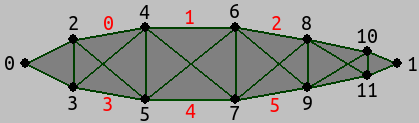
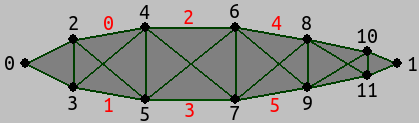
Start of hydro_fish.py SMHFish class cleanup.
More sensible numbering on muscles; updated fish anatomy picture to match.
__init__ method now requires 2D shape and mass data as input parameters.

diff --git a/vehicle/hydro_fish.py b/vehicle/hydro_fish.py
@@ -8,7 +8,7 @@ from __future__ import print_function
 from __future__ import division
 
 import sys, pygame
-from pygame.locals import RLEACCEL, QUIT, MOUSEBUTTONDOWN
+from pygame.locals import QUIT, MOUSEBUTTONDOWN
 
 # TODO: Adjust this depending on where this file ends up.
 sys.path.extend(['../vpoints', '../vehicle'])
@@ -16,37 +16,43 @@ from point2d import Point2d
 
 # BasePointMass2d defaults
 import vehicle2d
+# Additional spring-mass classes
 from springmass import DampedMass2d, IdealSpring2d
 
 # Math defauls
 from math import sqrt
 INF = float('inf')
 
+# This must be called after springmass imports to have any effect
 vehicle2d.set_physics_defaults(MASS=5.0, MAXSPEED=80.0, MAXFORCE=50000.0)
 
 # Fish coefficients (coefishents??)
-NODE_RADIUS = 5
-NODE_MASS = 1
+NODE_RADIUS = 0
+MASS_SCALE = 12
+SIZE_SCALE = 6
 DAMPING_COEFF = 10
-SPRING_CONST = 3
 MUSCLE_K = 80
 SOLIDS_K = 90
 CROSS_K = 200
 TAIL_K = 70
-HYDRO_FORCE_MULT = 45
+
+HEAD_MASS = 0.5
+# (Length, half-width, nodemass) for each segment
+BODY_DATA = [(8,4,6.6), (12,6,11.0), (15,6,8.6), (12,4,1.1), (10,2,1.1)]
+# (Length, nodemass) of tail
+TAIL_DATA = (5,0.004)
 
 SQUEEZE = 0.89
 FREQ = 180
 
-HYDRO_FORCE_SCALE = 0.02 # For rendering only?
-MASS_SCALE = 12
-SIZE_SCALE = 6
+HYDRO_FORCE_MULT = 45# Actual force multiplier
+HYDRO_FORCE_SCALE = 0.02 # For rendering only
+HYDRO_COLOR = (0,90,190)
 
 X_OFFSET = 400
 Y_OFFSET = 400
 
 UPDATE_SPEED = 0.02
-
 
 class MuscleSpring2d(IdealSpring2d):
     """A spring with the ability to contract and flex. See Notes.
@@ -165,7 +171,7 @@ class HydroQuad2d(object):
             self.base_m.accumulate_force(total_force.scm(1-ct))
             self.tip_m.accumulate_force(total_force.scm(ct))
 ## current force is for test with rendering (draws blue force vectors)
-            self.current_force = total_force.scm(HYDRO_FORCE_SCALE)
+            self.current_force = total_force
         else:
             self.current_force = None
 
@@ -173,81 +179,82 @@ class HydroQuad2d(object):
         """Draw the hydro force exerted by this quad."""
         if self.current_force is not None:
             center = [int(x) for x in self.pos.ntuple()]
-            pygame.draw.circle(surf,(0,90,190),center,3,0)
-            tipvec = self.pos - self.current_force
+            pygame.draw.circle(surf, HYDRO_COLOR, center, 3, 0)
+            tipvec = self.pos - self.current_force.scm(HYDRO_FORCE_SCALE)
             tip = [int(x) for x in tipvec.ntuple()]
-            pygame.draw.line(surf, (0,90,190), center, tip, 2)
+            pygame.draw.line(surf, HYDRO_COLOR, center, tip, 2)
 
 
 class SMHFish(object):
     """It's ostensibly a fish."""
 
-    def __init__(self):
-        # Fish coordinate nodes
-        # Head and tail
-        nodedata = [(0,0,0.5), (62,0,0.004)]
-
-        # Body nodes from head to tail with left/right symmetry
-        for i, j, m in [(8,4,6.6), (20,6,11.0), (35,6,8.6), (47,4,1.1), (57,2,1.1)]:
-            nodedata.append((i,j,m*MASS_SCALE))
-            nodedata.append((i,-j,m*MASS_SCALE))
-
+    def __init__(self, head_mass, body_data=None, tail_data=None):
+        # Placeholder for fish coordinate nodes
+        self.numnodes = 12
+        massnodes = list(range(self.numnodes))
+        damping = DAMPING_COEFF # velocity-based damping coeff for mass nodes
+        offset = Point2d(X_OFFSET, Y_OFFSET) # offset from head node
         # Set-up Node Sprites in their initial positions
-        obj = []
-        img = []
-        rec = []
-        offset = Point2d(X_OFFSET, Y_OFFSET)
-        for i, j, m in nodedata:
-            imgt = pygame.Surface((10,10))
-            imgt.set_colorkey((0,0,0), RLEACCEL)
-            rect = pygame.draw.circle(imgt,(1,1,1),(5,5),5,0)
-            img.append(imgt)
-            rec.append(rect)
-            node_pos = offset + Point2d(i,j).scm(SIZE_SCALE)
-            nodet = DampedMass2d(node_pos, NODE_RADIUS, Point2d(0,0),
-                                 m, DAMPING_COEFF, (imgt, rect))
-            obj.append(nodet)
+#        massnodes = []
+#        img = []
+#        rec = []
 
-        # List of nodes only, for later use
-        self.numnodes = len(obj)
-        nodelist = obj[:]
-        rgroup = [node.sprite for node in obj]
+        # Head node (NOTE: No spritedata)
+        massnodes[0] = DampedMass2d(offset, NODE_RADIUS, Point2d(0,0), head_mass*MASS_SCALE, damping)
 
-        # Set-up pygame rendering for all objects
-        self.allsprites = pygame.sprite.RenderPlain(rgroup)
+        x_local = 0
+        index_right = 0
+        for xlen, ywid, nmass in body_data:
+            index_right += 2
+            x_local += xlen
+            # Right node (even index)
+            nodepos = offset + Point2d(x_local, ywid).scm(SIZE_SCALE)
+            massnodes[index_right] = DampedMass2d(nodepos, NODE_RADIUS, Point2d(0,0), nmass*MASS_SCALE, damping)
+            # Left node (odd index)
+            nodepos = offset + Point2d(x_local, -ywid).scm(SIZE_SCALE)
+            massnodes[1 + index_right] = DampedMass2d(nodepos, NODE_RADIUS, Point2d(0,0), nmass*MASS_SCALE, damping)
+        # Tail
+        nodepos = offset + Point2d(x_local + tail_data[0], 0).scm(SIZE_SCALE)
+        nmass = tail_data[1]
+        massnodes[1] = DampedMass2d(nodepos, NODE_RADIUS, Point2d(0,0), nmass, damping)
 
-        # Set up springs
+        # Prints initial location of each node        
+        i = 0
+        for node in massnodes:
+            print('%d : %s' % (i, node.pos))
+            i += 1
+
+        # Set up muscle springs
         springs = []
-        edge_muscles = [(2,4), (4,6), (6,8), (3,5), (5,7), (7,9)]
         muscle_k = MUSCLE_K
-        for edge in edge_muscles:
-            i, j = edge
-            springs.append(MuscleSpring2d(muscle_k, nodelist[i], nodelist[j], SQUEEZE))
+        squeeze_p = SQUEEZE
+        for i, j in ((2,4), (3,5), (4,6), (5,7), (6,8), (7,9)):
+            springs.append(MuscleSpring2d(muscle_k, massnodes[i], massnodes[j], squeeze_p))
 
         # List of muscles for later use
         muscles = springs[:]
 
-        # Stiffer head springs
         edge_solids = [(0,2), (0,3), (2,3), (4,5), (6,7), (8,9), (10,11), (8,10), (9,11)]
+        # Stiffer head springs
         for edge in edge_solids[:2]:
             i, j = edge
-            springs.append(IdealSpring2d(SOLIDS_K*4, nodelist[i], nodelist[j]))
-
+            springs.append(IdealSpring2d(SOLIDS_K*4, massnodes[i], massnodes[j]))
+        # Other 
         for edge in edge_solids[2:]:
             i, j = edge
-            springs.append(IdealSpring2d(SOLIDS_K, nodelist[i], nodelist[j]))
+            springs.append(IdealSpring2d(SOLIDS_K, massnodes[i], massnodes[j]))
 
         edge_tail = [(1,10), (11,1)]
         for edge in edge_tail:
             i, j = edge
-            springs.append(IdealSpring2d(TAIL_K, nodelist[i], nodelist[j]))
+            springs.append(IdealSpring2d(TAIL_K, massnodes[i], massnodes[j]))
 
         edge_cross = [(2,5), (3,4), (4,7), (5,6), (6,9), (7,8), (9,10), (8,11)]
         for edge in edge_cross:
             i, j = edge
-            springs.append(IdealSpring2d(CROSS_K, nodelist[i], nodelist[j]))
+            springs.append(IdealSpring2d(CROSS_K, massnodes[i], massnodes[j]))
 
-        self.nodelist = tuple(nodelist)
+        self.massnodes = tuple(massnodes)
         self.springs = tuple(springs)
         self.muscles = tuple(muscles)
 
@@ -261,7 +268,7 @@ class SMHFish(object):
         hquadlist = []
         # Note the change in parameter order between above data and HydroQuad2d()
         for b,t,bh,th in quaddata:
-            hquadlist.append(HydroQuad2d(nodelist[b], bh, nodelist[t], th))
+            hquadlist.append(HydroQuad2d(massnodes[b], bh, massnodes[t], th))
         self.hquads = tuple(hquadlist)
 
     def signal_muscles(self, group, direction):
@@ -272,10 +279,10 @@ class SMHFish(object):
         if group == 1: # Front "turning" muscles
             pass
         if group == 2: # Midsection
-            self.muscles[1].contract(direction)
-            self.muscles[4].contract(1-direction)
-        if group == 3: # Rear "swim" muscles
             self.muscles[2].contract(direction)
+            self.muscles[3].contract(1-direction)
+        if group == 3: # Rear "swim" muscles
+            self.muscles[4].contract(direction)
             self.muscles[5].contract(1-direction)
 
     def update(self, delta_t=1.0):
@@ -289,11 +296,11 @@ class SMHFish(object):
             quad.exert_fluid_force(delta_t)
 
         # Update Nodes
-        for node in self.nodelist:
+        for node in self.massnodes:
             node.move(delta_t)
 
         # Update Sprites (via pygame sprite group update)
-        self.allsprites.update(delta_t)
+#        self.allsprites.update(delta_t)
 
     def render(self, surf):
         """Render this fish."""
@@ -306,12 +313,12 @@ class SMHFish(object):
             quad.renderforce(surf)
 
         # Render regular sprites (point masses)
-        self.allsprites.draw(surf)
+#        self.allsprites.draw(surf)
 
     def center_pos(self):
         """Center of position of all mass nodes."""
         result = Point2d(0,0)
-        for node in self.nodelist:
+        for node in self.massnodes:
             result = result + node.pos
         return result.scm(1/self.numnodes)
 
@@ -322,9 +329,9 @@ if __name__ == "__main__":
     size = sc_width, sc_height = 800, 640
     screen = pygame.display.set_mode(size)
     pygame.display.set_caption('Spring-mass-hydro fish demo')
-    bgcolor = 111, 145, 192
+    bgcolor = (111, 145, 192)
 
-    fish = SMHFish()
+    fish = SMHFish(HEAD_MASS, BODY_DATA, TAIL_DATA)
 
     ## Stuff below is for swimming muscle updates
     # TODO: Move this into the motor controller class
@@ -373,12 +380,12 @@ if __name__ == "__main__":
 
         # Get spring lengths for later plots
         # Midection
-        nls[0].append(fish.muscles[1].natlength) # Natural, right
-        als[0].append(fish.muscles[1].curlength) # Actual, right
-        nls[1].append(fish.muscles[4].natlength) # Natural, left
-        als[1].append(fish.muscles[4].curlength) # Actual, left
+        nls[0].append(fish.muscles[2].natlength) # Natural, right
+        als[0].append(fish.muscles[2].curlength) # Actual, right
+        nls[1].append(fish.muscles[3].natlength) # Natural, left
+        als[1].append(fish.muscles[3].curlength) # Actual, left
         # Rear swim
-        als[2].append(fish.muscles[2].curlength) # Actual, right
+        als[2].append(fish.muscles[4].curlength) # Actual, right
         als[3].append(fish.muscles[5].curlength) # Actual, left
 
         xposnew = fish.center_pos().ntuple()[0]
